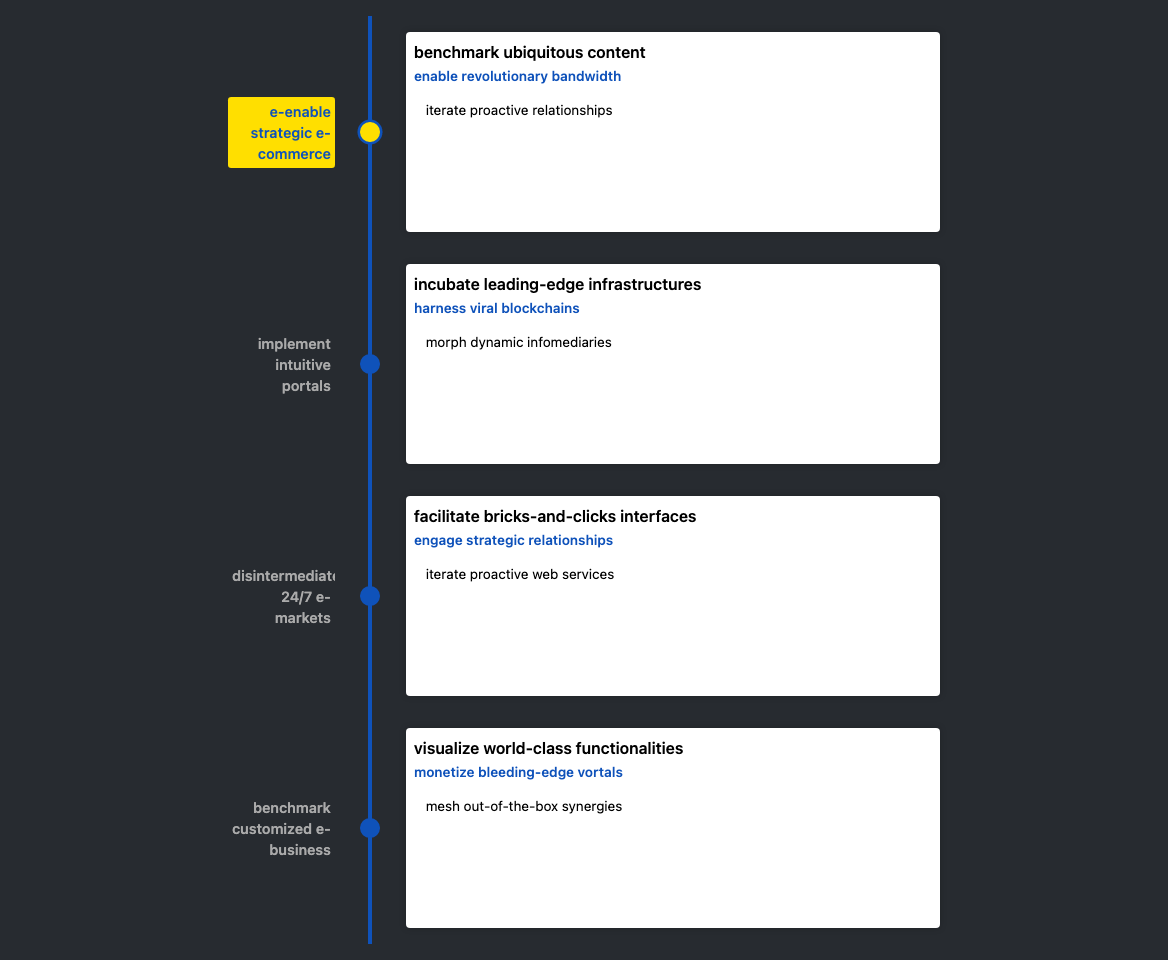
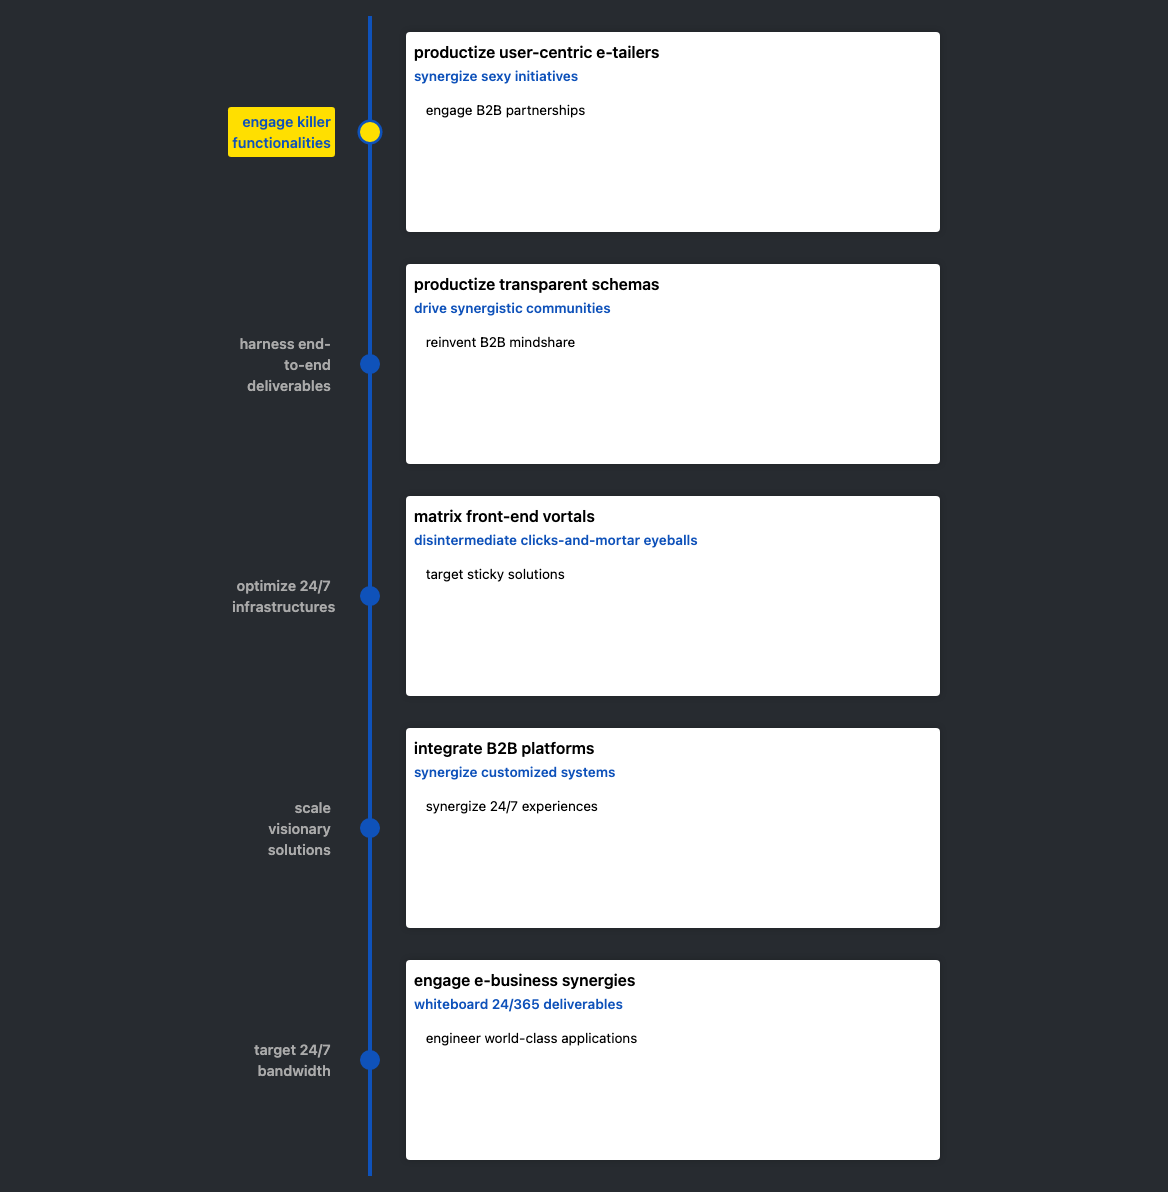
Add CardSlice

diff --git a/.slicemachine/assets/slices/BannerSlice/index.stories.js b/.slicemachine/assets/slices/BannerSlice/index.stories.js
@@ -5,8 +5,8 @@ export default {
 }
 
 
-export const _DefaultSlice = () => <MyComponent slice={{"variation":"default-slice","name":"Default slice","slice_type":"banner_slice","items":[],"primary":{"title":[{"type":"heading1","text":"Generate ubiquitous networks","spans":[]}],"description":[{"type":"paragraph","text":"Laborum fugiat exercitation voluptate aliquip.","spans":[]}],"background":{"dimensions":{"width":900,"height":500},"alt":"Placeholder image","copyright":null,"url":"https://images.unsplash.com/photo-1607582278043-57198ac8da43?w=900&h=500&fit=crop"}},"id":"_DefaultSlice"}} />
+export const _DefaultSlice = () => <MyComponent slice={{"variation":"default-slice","name":"Default slice","slice_type":"banner_slice","items":[],"primary":{"title":[{"type":"heading1","text":"Deliver impactful infrastructures","spans":[]}],"description":[{"type":"paragraph","text":"Proident exercitation ex et.","spans":[]}],"background":{"dimensions":{"width":900,"height":500},"alt":"Placeholder image","copyright":null,"url":"https://images.unsplash.com/photo-1560762484-813fc97650a0?w=900&h=500&fit=crop"}},"id":"_DefaultSlice"}} />
 _DefaultSlice.storyName = 'Default slice'
 
-export const _HalfBanner = () => <MyComponent slice={{"variation":"halfBanner","name":"Half Banner","slice_type":"banner_slice","items":[],"primary":{"title":[{"type":"heading1","text":"Syndicate ubiquitous e-commerce","spans":[]}],"description":[{"type":"paragraph","text":"Sint sunt aute ut cupidatat quis reprehenderit id excepteur proident. Sit in dolor occaecat ex ut elit magna.","spans":[]}],"background":{"dimensions":{"width":900,"height":500},"alt":"Placeholder image","copyright":null,"url":"https://images.unsplash.com/photo-1486312338219-ce68d2c6f44d?w=900&h=500&fit=crop"}},"id":"_HalfBanner"}} />
+export const _HalfBanner = () => <MyComponent slice={{"variation":"halfBanner","name":"Half Banner","slice_type":"banner_slice","items":[],"primary":{"title":[{"type":"heading1","text":"Redefine holistic networks","spans":[]}],"description":[{"type":"paragraph","text":"Ullamco mollit veniam exercitation minim irure in in sint exercitation eu dolore. Lorem Lorem laboris sit ex esse laborum minim dolor laboris.","spans":[]}],"background":{"dimensions":{"width":900,"height":500},"alt":"Placeholder image","copyright":null,"url":"https://images.unsplash.com/photo-1576662712957-9c79ae1280f8?w=900&h=500&fit=crop"}},"id":"_HalfBanner"}} />
 _HalfBanner.storyName = 'Half Banner'

diff --git a/.slicemachine/assets/slices/TimelineSlice/index.stories.js b/.slicemachine/assets/slices/TimelineSlice/index.stories.js
@@ -5,5 +5,5 @@ export default {
 }
 
 
-export const _DefaultSlice = () => <MyComponent slice={{"variation":"default-slice","name":"Default slice","slice_type":"timeline_slice","items":[{"dateString":"e-enable strategic e-commerce","title":"benchmark ubiquitous content","subtitle":"enable revolutionary bandwidth","description":"iterate proactive relationships"},{"dateString":"implement intuitive portals","title":"incubate leading-edge infrastructures","subtitle":"harness viral blockchains","description":"morph dynamic infomediaries"},{"dateString":"disintermediate 24/7 e-markets","title":"facilitate bricks-and-clicks interfaces","subtitle":"engage strategic relationships","description":"iterate proactive web services"},{"dateString":"benchmark customized e-business","title":"visualize world-class functionalities","subtitle":"monetize bleeding-edge vortals","description":"mesh out-of-the-box synergies"}],"primary":{},"id":"_DefaultSlice"}} />
+export const _DefaultSlice = () => <MyComponent slice={{"variation":"default-slice","name":"Default slice","slice_type":"timeline_slice","items":[{"dateString":"engage killer functionalities","title":"productize user-centric e-tailers","subtitle":"synergize sexy initiatives","description":"engage B2B partnerships"},{"dateString":"harness end-to-end deliverables","title":"productize transparent schemas","subtitle":"drive synergistic communities","description":"reinvent B2B mindshare"},{"dateString":"optimize 24/7 infrastructures","title":"matrix front-end vortals","subtitle":"disintermediate clicks-and-mortar eyeballs","description":"target sticky solutions"},{"dateString":"scale visionary solutions","title":"integrate B2B platforms","subtitle":"synergize customized systems","description":"synergize 24/7 experiences"},{"dateString":"target 24/7 bandwidth","title":"engage e-business synergies","subtitle":"whiteboard 24/365 deliverables","description":"engineer world-class applications"}],"primary":{},"id":"_DefaultSlice"}} />
 _DefaultSlice.storyName = 'Default slice'

diff --git a/.slicemachine/assets/slices/FeaturedImage/index.stories.js b/.slicemachine/assets/slices/FeaturedImage/index.stories.js
@@ -5,5 +5,5 @@ export default {
 }
 
 
-export const _DefaultSlice = () => <MyComponent slice={{"variation":"default-slice","name":"Default slice","slice_type":"featured_image","items":[],"primary":{"title":[{"type":"heading2","text":"Mesh next-generation applications","spans":[]}],"headline":[{"type":"paragraph","text":"Adipisicing duis culpa aute ea minim mollit. Tempor Lorem ad ut quis et nostrud sint velit est magna dolor id fugiat tempor. Dolore dolor non eu anim do.","spans":[]}],"link":{"link_type":"Web","url":"http://google.com"},"linkLabel":"recontextualize end-to-end applications","featuredImage":{"dimensions":{"width":null,"height":320},"alt":"Placeholder image","copyright":null,"url":"https://images.unsplash.com/photo-1486312338219-ce68d2c6f44d?w=null&h=320&fit=crop"}},"id":"_DefaultSlice"}} />
+export const _DefaultSlice = () => <MyComponent slice={{"variation":"default-slice","name":"Default slice","slice_type":"featured_image","items":[],"primary":{"title":[{"type":"heading2","text":"Incentivize proactive action-items","spans":[]}],"headline":[{"type":"paragraph","text":"Commodo do laborum Lorem enim eiusmod est aliqua minim ut minim laborum veniam non amet. Esse consectetur deserunt do qui ut excepteur ipsum. Lorem occaecat commodo eu enim ea commodo minim elit id.","spans":[]}],"link":{"link_type":"Web","url":"https://slicemachine.dev"},"linkLabel":"matrix value-added blockchains","featuredImage":{"dimensions":{"width":null,"height":320},"alt":"Placeholder image","copyright":null,"url":"https://images.unsplash.com/photo-1560762484-813fc97650a0?w=null&h=320&fit=crop"}},"id":"_DefaultSlice"}} />
 _DefaultSlice.storyName = 'Default slice'

diff --git a/.slicemachine/assets/slices/CardSlice/index.stories.js b/.slicemachine/assets/slices/CardSlice/index.stories.js
@@ -1,0 +1,9 @@
+import MyComponent from '../../../../slices/CardSlice';
+
+export default {
+  title: 'slices/CardSlice'
+}
+
+
+export const _DefaultSlice = () => <MyComponent slice={{"variation":"default-slice","name":"Default slice","slice_type":"card_slice","items":[{"cardTitle":[{"type":"heading4","text":"Architect compelling e-tailers","spans":[]}],"cardDescription":[{"type":"paragraph","text":"Reprehenderit qui magna fugiat tempor in labore officia. Exercitation esse quis culpa eiusmod excepteur ad occaecat aliqua fugiat exercitation amet pariatur Lorem deserunt sit. In cupidatat enim ullamco voluptate elit tempor et anim ad sunt exercitation aliquip esse incididunt.","spans":[]}]},{"cardTitle":[{"type":"heading4","text":"Generate intuitive solutions","spans":[]}],"cardDescription":[{"type":"paragraph","text":"Ex ullamco mollit duis eiusmod do. Eu ex commodo deserunt officia exercitation nulla. Commodo officia ut pariatur.","spans":[]}]},{"cardTitle":[{"type":"heading4","text":"Leverage e-business schemas","spans":[]}],"cardDescription":[{"type":"paragraph","text":"Nisi adipisicing ipsum minim amet in.","spans":[]}]},{"cardTitle":[{"type":"heading4","text":"Incubate killer ROI","spans":[]}],"cardDescription":[{"type":"paragraph","text":"Irure veniam sit sit. Laborum ex magna duis.","spans":[]}]}],"primary":{},"id":"_DefaultSlice"}} />
+_DefaultSlice.storyName = 'Default slice'

diff --git a/.slicemachine/assets/slices/TextSlice/index.stories.js b/.slicemachine/assets/slices/TextSlice/index.stories.js
@@ -5,5 +5,5 @@ export default {
 }
 
 
-export const _DefaultSlice = () => <MyComponent slice={{"variation":"default-slice","name":"Default slice","slice_type":"text_slice","items":[],"primary":{"text":[{"type":"paragraph","text":"Ullamco do Lorem et nulla do ut aliquip irure quis enim consequat laboris. Incididunt velit culpa aliqua exercitation dolor proident sit exercitation cillum id tempor. Eiusmod adipisicing amet anim.","spans":[]}]},"id":"_DefaultSlice"}} />
+export const _DefaultSlice = () => <MyComponent slice={{"variation":"default-slice","name":"Default slice","slice_type":"text_slice","items":[],"primary":{"text":[{"type":"paragraph","text":"Consequat reprehenderit elit dolor nostrud elit. Excepteur in aliqua Lorem culpa dolore velit nulla ea sit aute Lorem mollit aliquip magna duis.","spans":[]}]},"id":"_DefaultSlice"}} />
 _DefaultSlice.storyName = 'Default slice'

diff --git a/slices/CardSlice/index.js b/slices/CardSlice/index.js
@@ -1,0 +1,31 @@
+import React from 'react'
+import { RichText } from 'prismic-reactjs'
+import { Card, CardGroup } from "react-bootstrap";
+
+const CardSlice = ({ slice }) => (
+  <section className="card-section">
+    <div className="card-content container">
+      <CardGroup>
+        {slice.items.map((item, i) => (
+          <Card key={item.cardTitle}>
+            <Card.Header>
+              <RichText render={item.cardTitle} />
+            </Card.Header>
+            <Card.Body>
+              <Card.Text>
+                <RichText render={item.cardDescription} />
+              </Card.Text>
+            </Card.Body>
+          </Card>
+        ))}
+      </CardGroup>
+    </div>
+    <style jsx>{`
+      .card-section {
+        margin: 100px 0;
+      }
+    `}</style>
+  </section>
+)
+
+export default CardSlice

diff --git a/.slicemachine/assets/slices/FullWidthImage/index.stories.js b/.slicemachine/assets/slices/FullWidthImage/index.stories.js
@@ -5,5 +5,5 @@ export default {
 }
 
 
-export const _DefaultSlice = () => <MyComponent slice={{"variation":"default-slice","name":"Default slice","slice_type":"full_width_image","items":[],"primary":{"image":{"dimensions":{"width":980,"height":400},"alt":"Placeholder image","copyright":null,"url":"https://images.unsplash.com/photo-1587905069134-008460d7a636?w=980&h=400&fit=crop"}},"id":"_DefaultSlice"}} />
+export const _DefaultSlice = () => <MyComponent slice={{"variation":"default-slice","name":"Default slice","slice_type":"full_width_image","items":[],"primary":{"image":{"dimensions":{"width":980,"height":400},"alt":"Placeholder image","copyright":null,"url":"https://images.unsplash.com/photo-1471897488648-5eae4ac6686b?w=980&h=400&fit=crop"}},"id":"_DefaultSlice"}} />
 _DefaultSlice.storyName = 'Default slice'

diff --git a/slices/index.js b/slices/index.js
@@ -1,6 +1,7 @@
 // This file is generated by Prismic local builder. Update with care!
 
 export { default as BannerSlice } from './BannerSlice'
+export { default as CardSlice } from './CardSlice'
 export { default as FeaturedImage } from './FeaturedImage'
 export { default as FullWidthImage } from './FullWidthImage'
 export { default as TextSlice } from './TextSlice'
